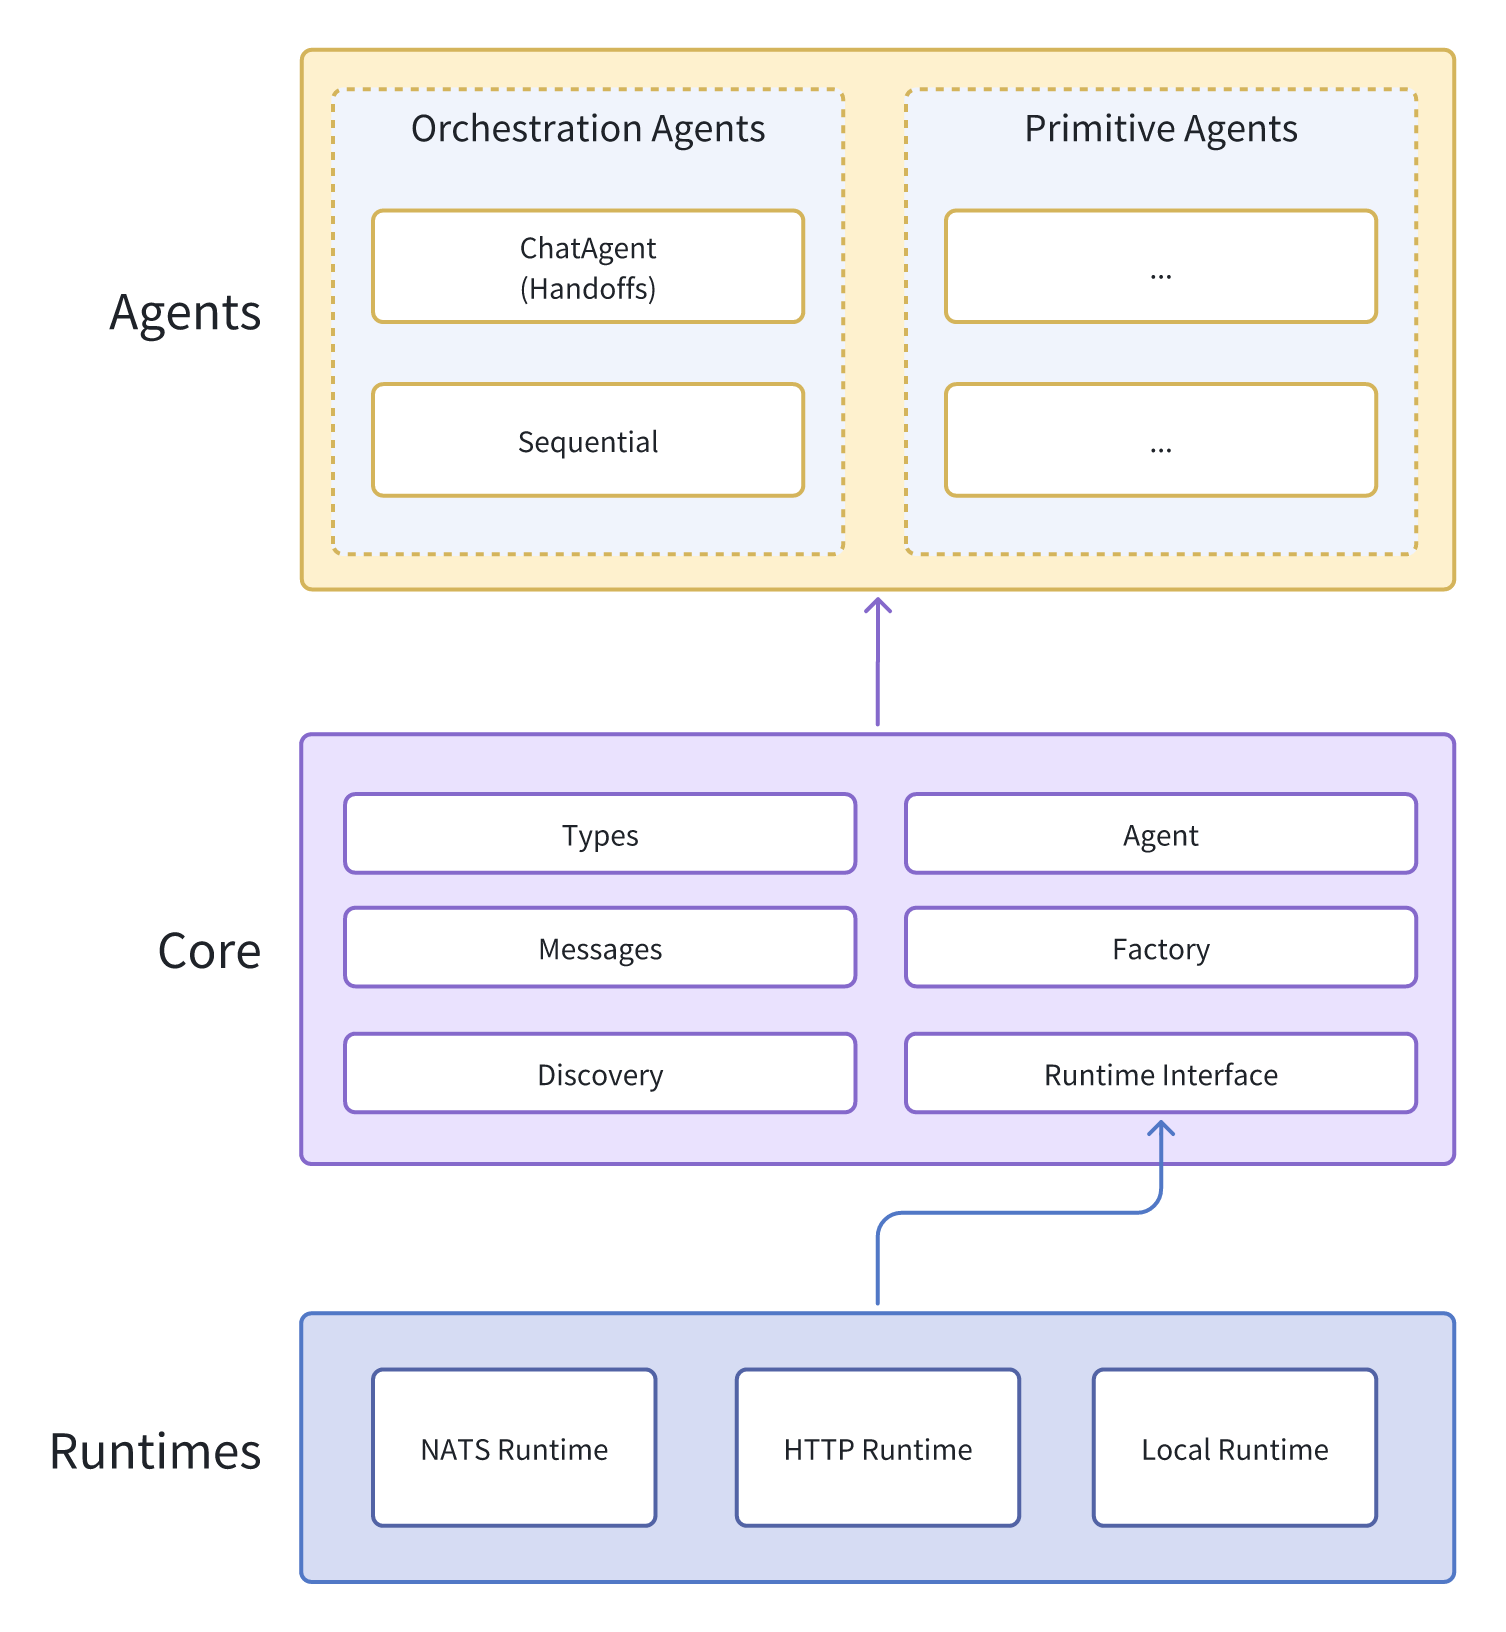
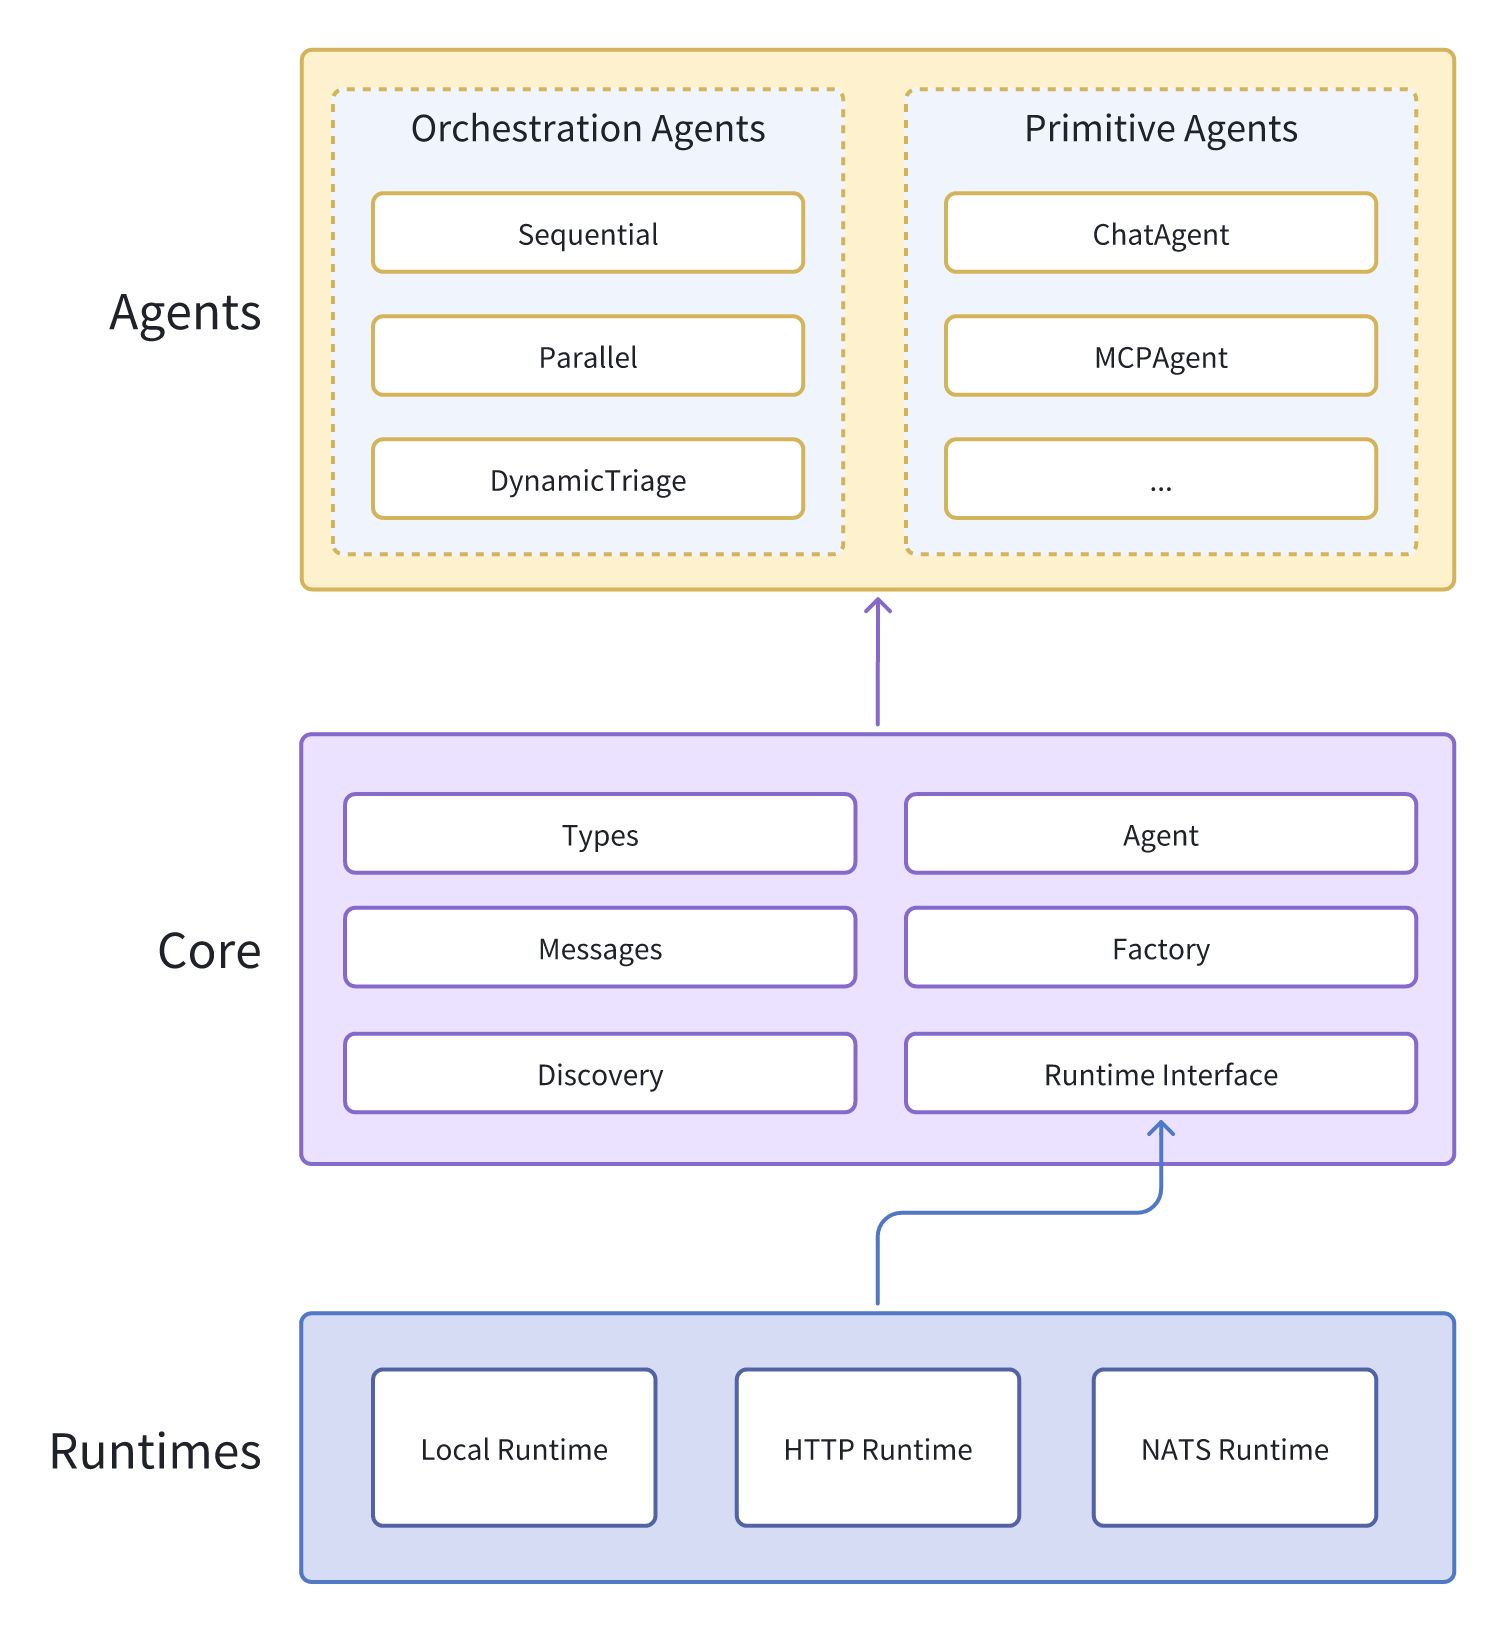
Update README

diff --git a/README.md b/README.md
@@ -18,6 +18,10 @@ An open-source framework for building monolithic or distributed agentic systems,
 
 - [x] Event-driven
 - [x] Monolithic or Distributed
+    - [x] Local Runtime (In-process Runtime)
+    - [x] HTTP Runtime (HTTP-based Distributed Runtime)
+    - [x] NATS Runtime (NATS-based Distributed Runtime)
+        - [ ] Using NATS [JetStream][1]
 - [x] Single-agent
     - [x] Function-calling
     - [ ] ReAct
@@ -29,16 +33,13 @@ An open-source framework for building monolithic or distributed agentic systems,
     - [x] Dynamic orchestration
         - [x] Dynamic Triage
         - [x] Handoffs (based on async Swarm)
-        - [ ] Group Chat
-- [x] Runtime
-    - [x] Local Runtime (In-process Runtime)
-    - [x] HTTP Runtime (HTTP-based Distributed Runtime)
-    - [x] NATS Runtime (NATS-based Distributed Runtime)
-        - [ ] Using NATS [JetStream][1]
+- [x] Support Any LLM
+- [x] Support [Model Context Protocol (MCP)][2]
 - [x] [CoS](coagent/cos) (Multi-language support)
     - [x] [Python](examples/cos/cos.py)
     - [x] [Node.js](examples/cos/cos.js)
     - [x] [Go](examples/cos/goagent)
+    - [ ] Zig
     - [ ] Rust
 
 
@@ -111,7 +112,7 @@ python translator.py
 
 ### Distributed
 
-Start a NATS server ([docs][2]):
+Start a NATS server ([docs][3]):
 
 ```bash
 docker run -p 4222:4222 --name nats-server -ti nats:latest
@@ -420,4 +421,5 @@ triage = AgentSpec(
 
 
 [1]: https://docs.nats.io/nats-concepts/jetstream
-[2]: https://docs.nats.io/running-a-nats-service/nats_docker/nats-docker-tutorial
+[2]: https://modelcontextprotocol.io/introduction
+[3]: https://docs.nats.io/running-a-nats-service/nats_docker/nats-docker-tutorial
